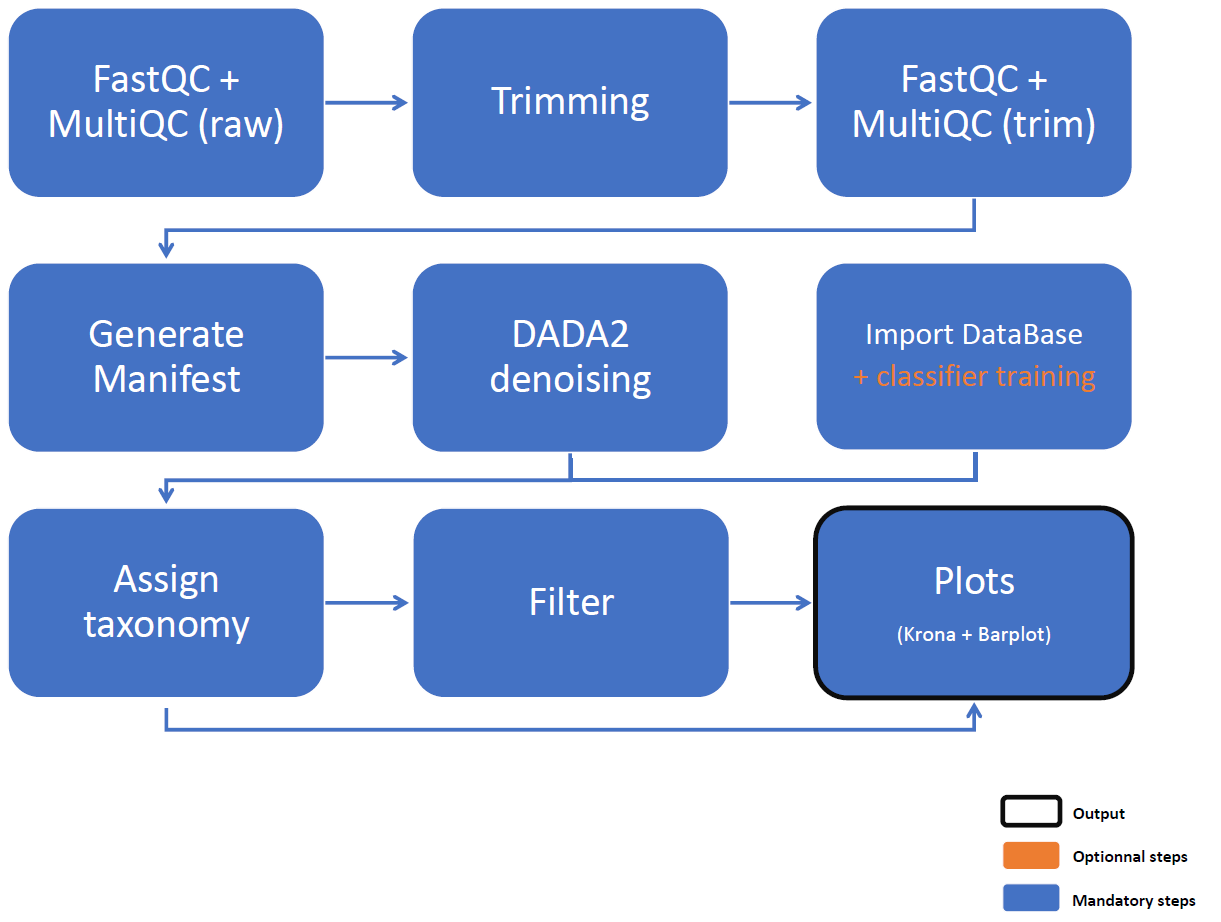
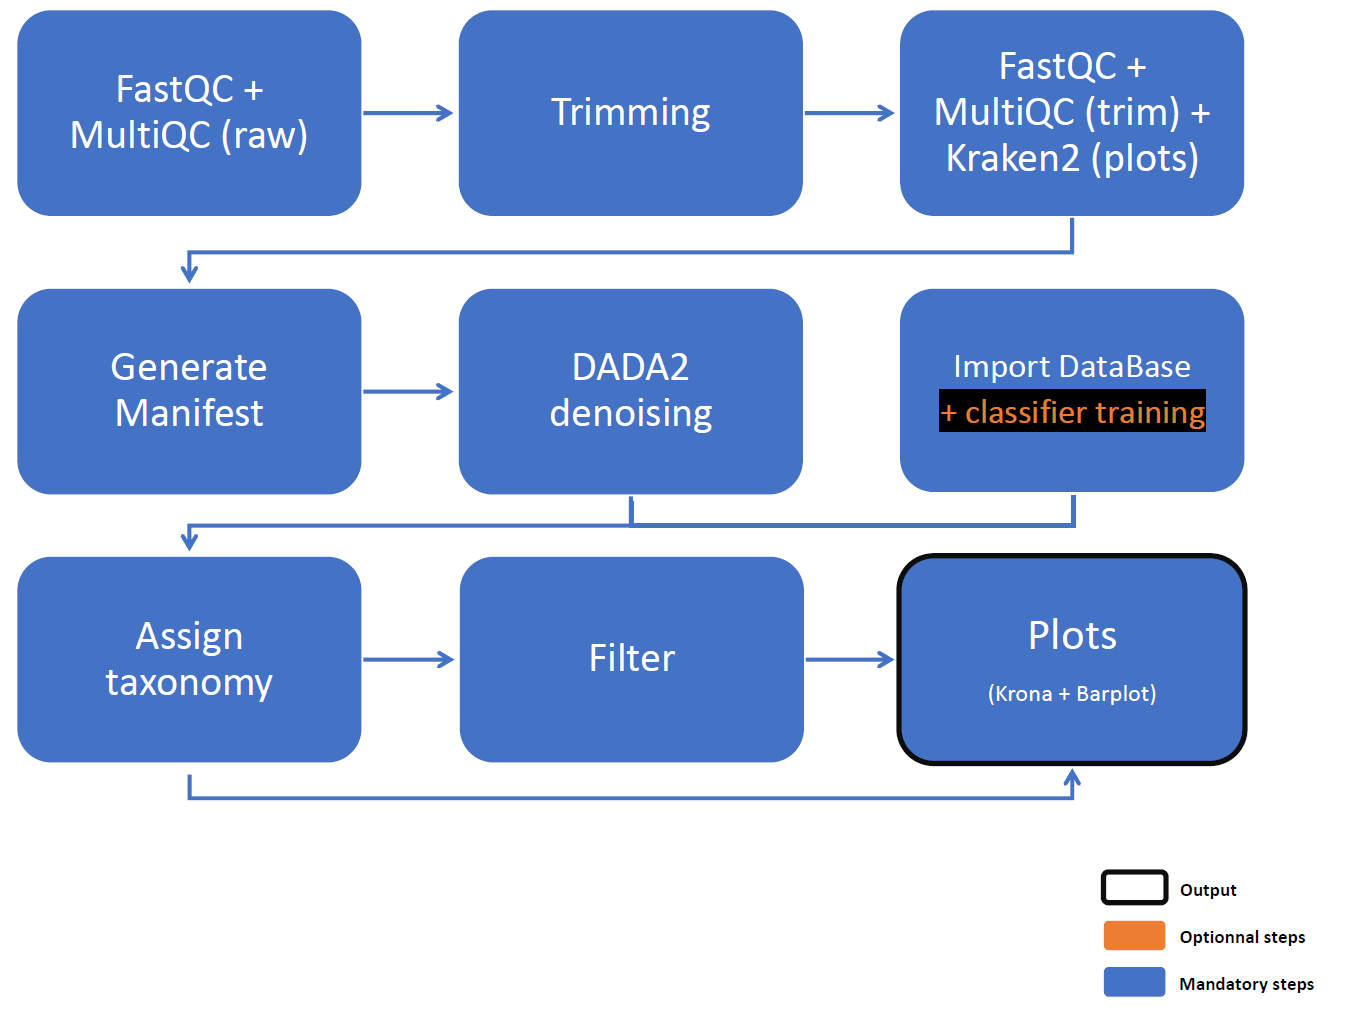
UPDATED : img

diff --git a/README.md b/README.md
@@ -75,12 +75,9 @@ All input/output paths and software parameters are fully defined by the configur
 
 These rules apply in both execution modes:
 
-* Input files must be `fastq` or `fastq.gz`.
-* Data must contain `_R1` and `_R2` in filenames.
-* File naming convention:
-
-  * If an underscore `_` exists in the filename, only the part before the first `_` is used for downstream naming.
-  * Otherwise, the full filename is used.
+* **Input files must be `fastq` or `fastq.gz`**.
+* **Data must contain `_R1` and `_R2` in filenames**.
+* Only the part before the first `_` is used for downstream naming (= sample_id).
 
 ---
 
